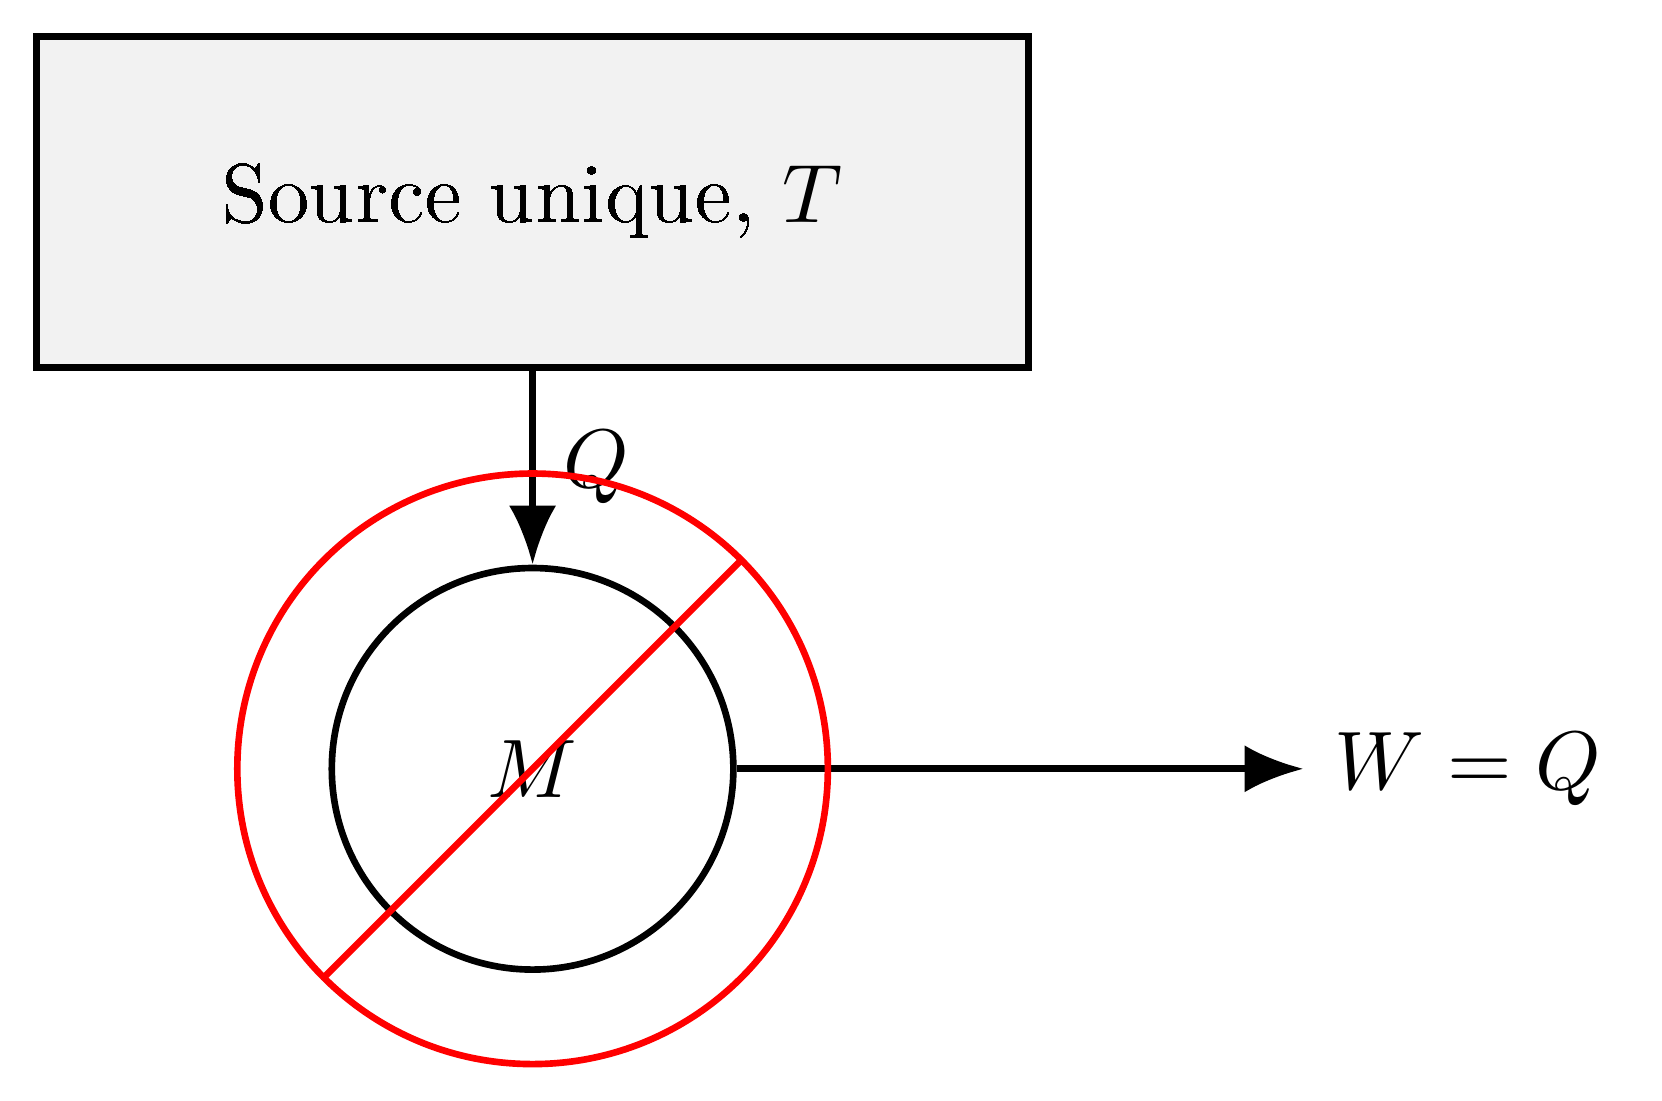
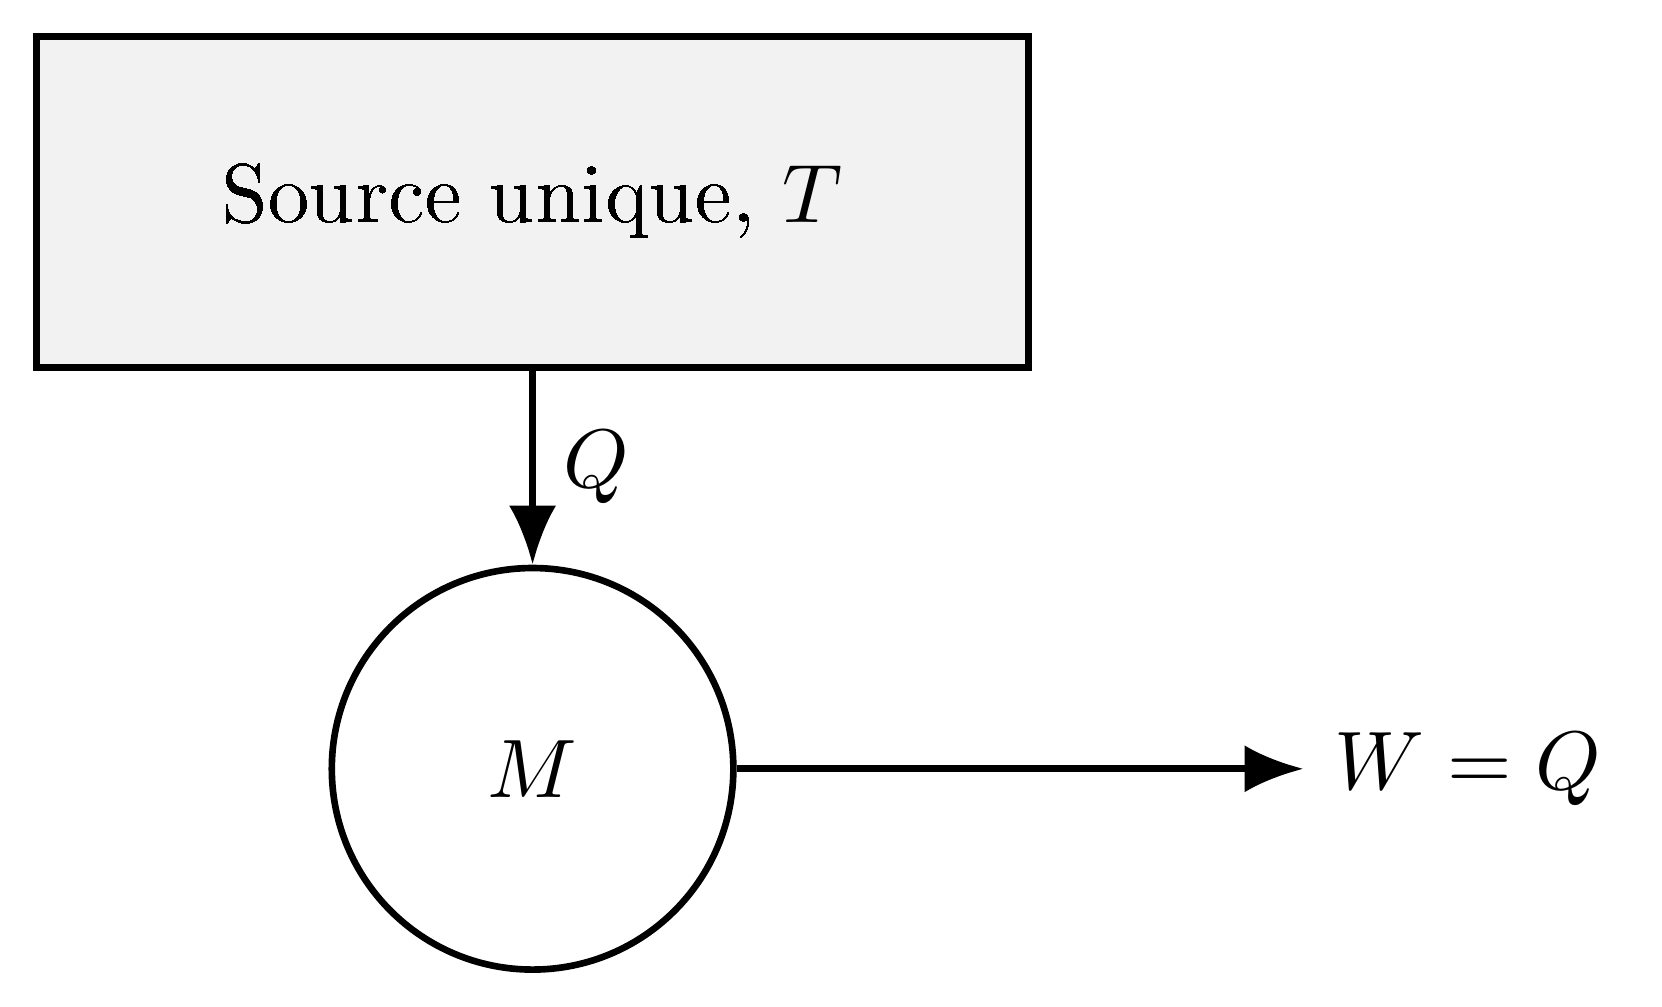
Bump submodule tex; fix \url percent-encoding truncation; update figures
The stripComment() line-comment stripper treated any raw '%' as starting
a LaTeX comment, silently truncating percent-encoded URLs inside \url{}
(e.g. .../wiki/H%C3%A9ron_d%27Alexandrie cut down to ".../H"). Percents
inside \url{...} are now protected before comment stripping.

Also swaps carnot-ouvrage-1824 to PNG and updates the two reworked
intro figures (monotherme machine, course architecture diagram).

diff --git a/lib/chapterContent.server.ts b/lib/chapterContent.server.ts
@@ -6,9 +6,15 @@ import { processLatex } from "@/lib/latex";
 
 function stripComment(line: string): string {
   const protectedPercent = "__ESCAPED_PERCENT__";
-  const escaped = line.replace(/\\%/g, protectedPercent);
-  const withoutComment = escaped.replace(/%.*$/, "");
-  return withoutComment.replace(new RegExp(protectedPercent, "g"), "\\%");
+  const protectedUrlPercent = "__URL_PERCENT__";
+  let working = line.replace(/\\%/g, protectedPercent);
+  // Percent-encoded URLs (e.g. \url{...H%C3%A9ron...}) use raw, unescaped
+  // '%' characters that must survive comment stripping intact.
+  working = working.replace(/\\url\{[^{}]*\}/g, (match) => match.replace(/%/g, protectedUrlPercent));
+  const withoutComment = working.replace(/%.*$/, "");
+  return withoutComment
+    .replace(new RegExp(protectedUrlPercent, "g"), "%")
+    .replace(new RegExp(protectedPercent, "g"), "\\%");
 }
 
 function readBalancedBracesAt(input: string, startIndex: number): { content: string; endIndex: number } | null {